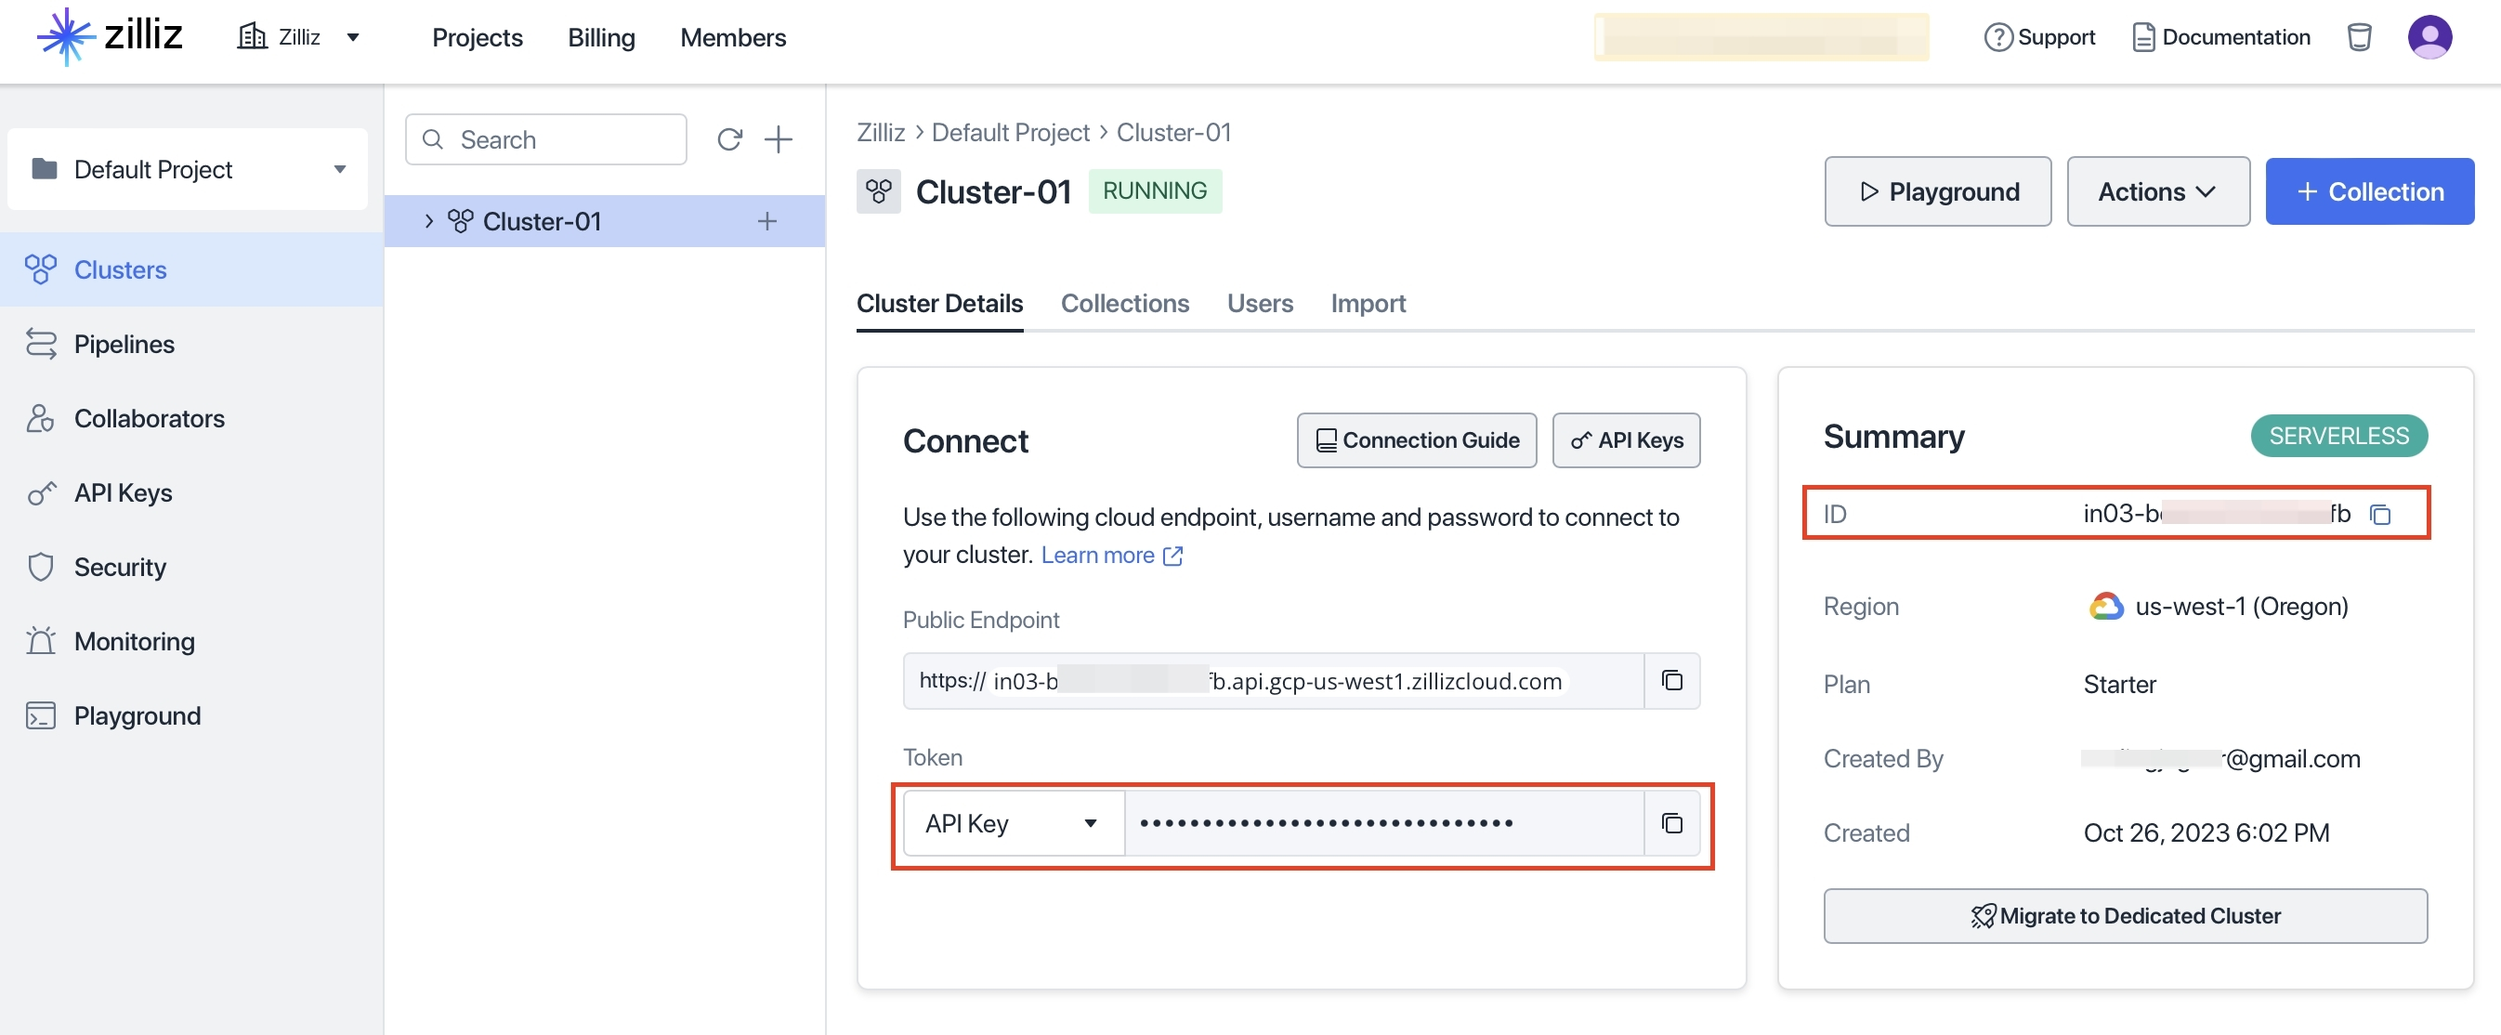
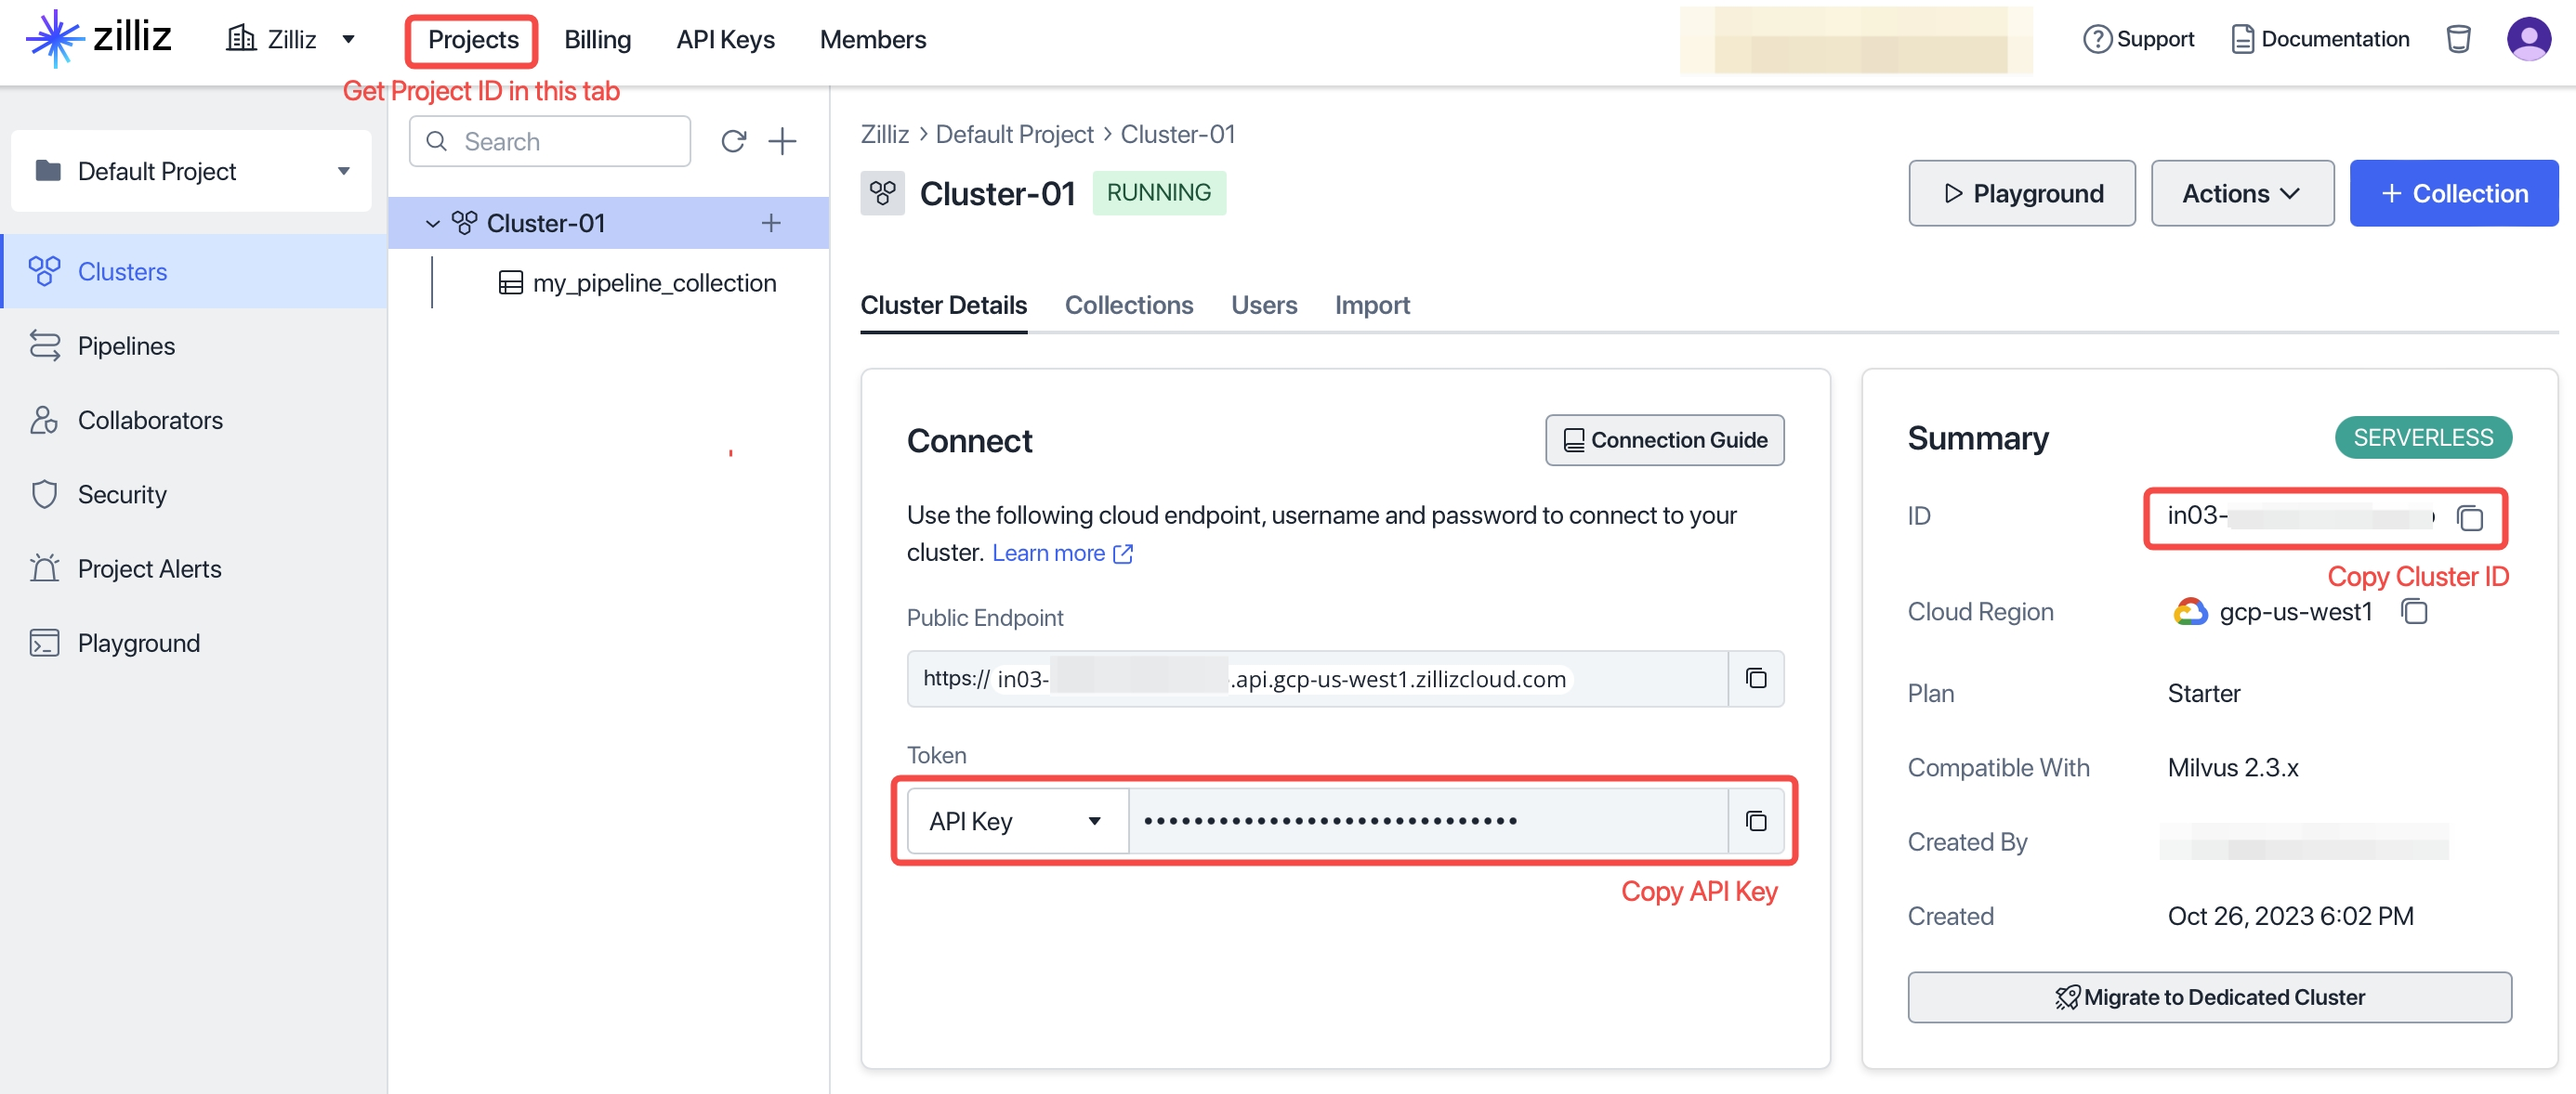
add project id and chunksize in pipeline rag notebook

diff --git a/bootcamp/RAG/pipeline_utils.py b/bootcamp/RAG/pipeline_utils.py
@@ -33,17 +33,19 @@ class IngestionPipeline(BasePipeline):
     https://docs.zilliz.com/docs/create-piplines-rest#create-an-ingestion-pipeline
     """
 
-    def __init__(self, cloud_region, cluster_id, api_key, collection_name, pipeline_name, functions,
+    def __init__(self, cloud_region, cluster_id, api_key, project_id, collection_name, pipeline_name, functions,
                  description="A pipeline that splits a text file into chunks and generates embeddings"):
         super().__init__()
         self.cloud_region = cloud_region
         self.cluster_id = cluster_id
         self.api_key = api_key
+        self.project_id = project_id
         self.collection_name = collection_name
         self.pipeline_name = pipeline_name
         self.functions = functions
         self.description = description
         data = {
+            "projectId": self.project_id,
             "name": self.pipeline_name,
             "description": self.description,
             "type": "INGESTION",
@@ -82,15 +84,17 @@ class SearchPipeline(BasePipeline):
     https://docs.zilliz.com/docs/create-piplines-rest#create-a-search-pipeline
     """
 
-    def __init__(self, cloud_region, api_key, pipeline_name, functions,
+    def __init__(self, cloud_region, api_key, project_id, pipeline_name, functions,
                  description="A pipeline that receives text and search for semantically similar doc chunks"):
         super().__init__()
         self.cloud_region = cloud_region
         self.api_key = api_key
+        self.project_id = project_id
         self.pipeline_name = pipeline_name
         self.functions = functions
         self.description = description
         data = {
+            "projectId": self.project_id,
             "name": self.pipeline_name,
             "description": self.description,
             "type": "SEARCH",
